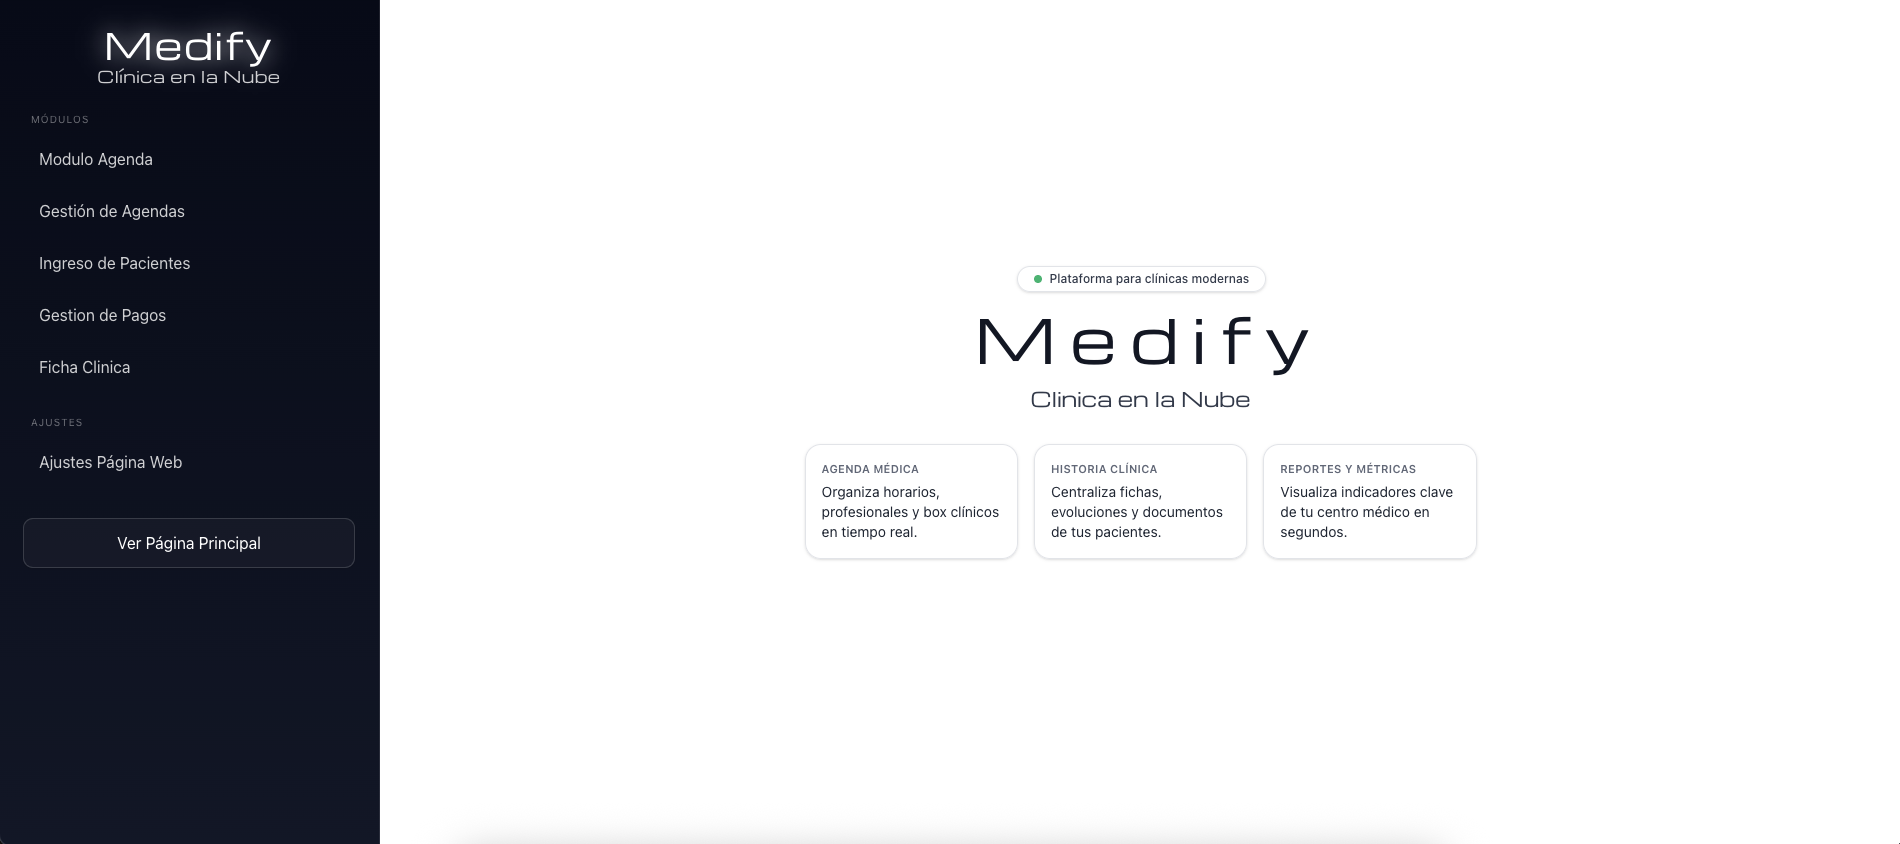
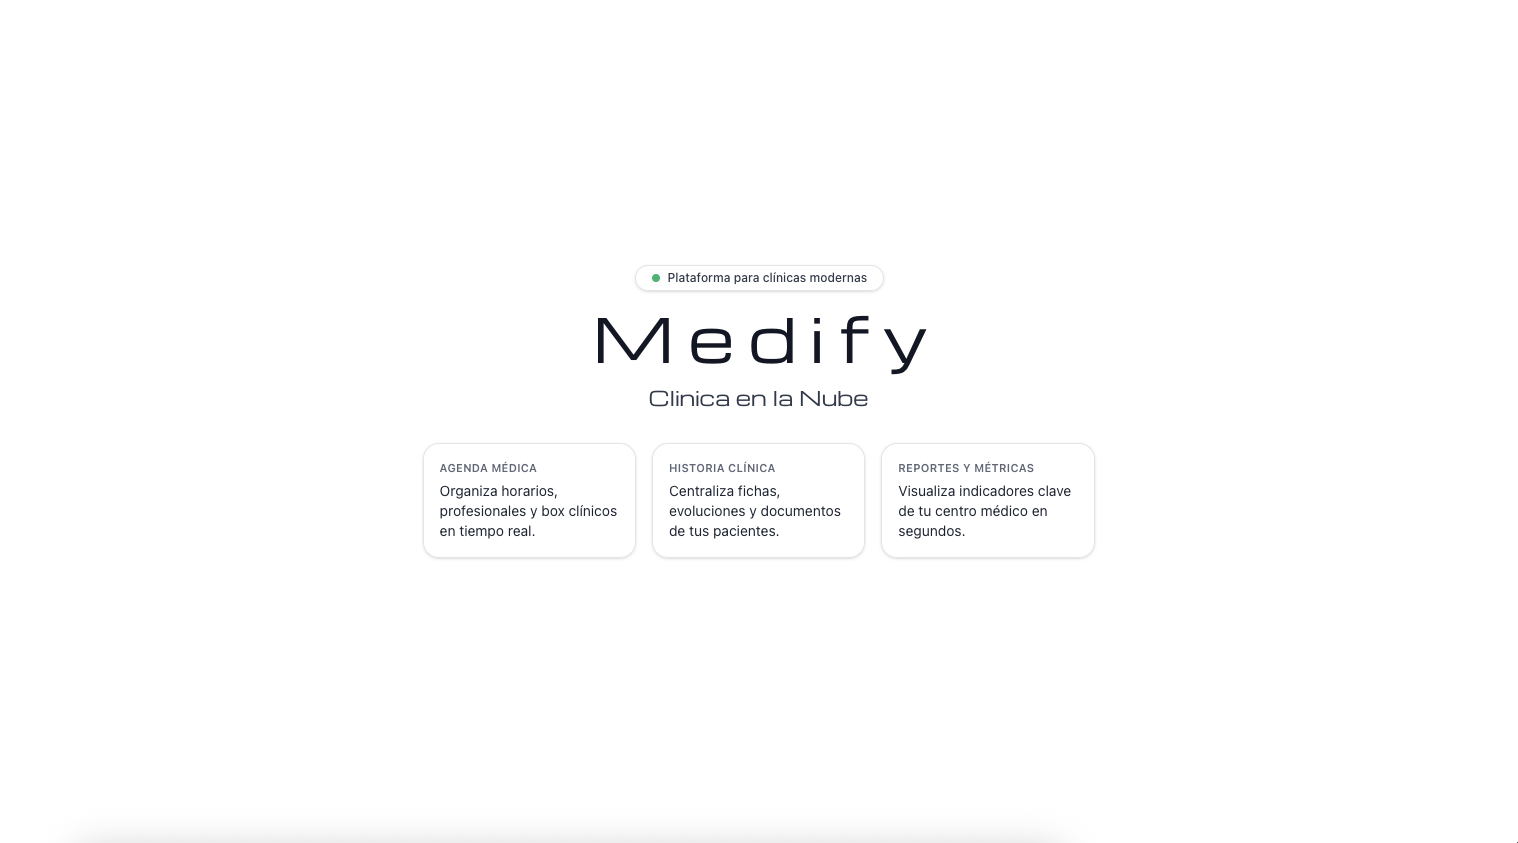
chore: integración pantalla ipad

diff --git a/src/app/servicios/page.jsx b/src/app/servicios/page.jsx
@@ -4,8 +4,9 @@ import CardSwap from '../../componentes/CardSwap';
 import FadeInSection from '../../componentes/FadeInSection';
 import Typeanimation from "@/components/ui/typeanimation";
 import { Check, MoveRight, PhoneCall } from "lucide-react";
-
+import Image from "next/image";
 import Pricing1 from "../../components/ui/pricing1";
+import { ContainerScroll } from "@/components/ui/container-scroll-animation";
 
 
 const michroma = Michroma({ subsets: ["latin"], weight: "400", display: "swap" });
@@ -15,20 +16,40 @@ export default function ServiciosPage() {
   return (
     <div className="min-h-screen w-full relative bg-white text-neutral-900">
 
+      {/* Scroll Animation Section */}
+      <div className="w-full">
+        <ContainerScroll
+          titleComponent={
+            <div className="max-w-3xl mx-auto text-center">
+              <h2 className={`text-base/20 font-semibold text-[#0c3690] mb-4 ${spaceGrotesk.className}`}>
+                Gestión Médica Innovadora
+              </h2>
+              <h1 className={`text-3xl md:text-5xl lg:text-6xl font-bold tracking-tight text-neutral-900 mb-6 leading-tight ${spaceGrotesk.className}`}>
+                <strong className="bg-gradient-to-r from-blue-400 to-teal-500 bg-clip-text text-transparent">
+                  La forma de gestionar tu consulta ha cambiado.
+                </strong>
+              </h1>
+              <p className="text-base md:text-lg lg:text-xl text-neutral-700 leading-relaxed px-6 sm:px-8 md:px-12 lg:px-0 max-w-2xl mx-auto">
+                Descubre nuestras soluciones tecnológicas especializadas para el sector de la salud. 
+                Desde gestión básica hasta sistemas de reservas en la nube.
+              </p>
+            </div>
+          }
+        >
+          <Image
+            src="/medifyipadgrafico.jpg"
+            alt="Plataforma de gestión médica Medify"
+            height={720}
+            width={1400}
+            className="mx-auto rounded-2xl object-cover h-full object-left-top"
+            draggable={false}
+          />
+        </ContainerScroll>
+      </div>
 
       {/* Nueva estructura: texto arriba, integraciones abajo */}
       <FadeInSection delay={0}>
-        <div className="max-w-3xl mx-auto text-center mb-12">
-          <h2 className={`text-base/20 font-semibold text-[#0c3690] mb-4 ${spaceGrotesk.className}`}>Gestión Médica Innovadora</h2>
-          <h1 className={`text-center lg:text-5xl xl:text-6xl font-bold tracking-tight text-neutral-900 mb-6 leading-tight ${spaceGrotesk.className}`}>
-            <strong className="bg-gradient-to-r from-blue-400 to-teal-500 bg-clip-text text-transparent">La forma de gestionar tu consulta ha cambiado.</strong>
-          </h1>
-          <p className="text-center lg:text-xl text-neutral-700 leading-relaxed mb-12 px-6 sm:px-8 md:px-12 lg:px-0 max-w-2xl mx-auto">
-            Descubre nuestras soluciones tecnológicas especializadas para el sector de la salud. 
-            Desde gestión básica hasta sistemas de reservas en la nube.
-          </p>
-        </div>
-        <div className="w-full flex flex-col items-center justify-center">
+        <div className="w-full flex flex-col items-center justify-center -mt-32 md:-mt-40">
           <Pricing1/>
         </div>
       </FadeInSection>

diff --git a/src/components/ui/container-scroll-animation.jsx b/src/components/ui/container-scroll-animation.jsx
@@ -1,0 +1,87 @@
+"use client";
+import React, { useRef } from "react";
+import { useScroll, useTransform, motion } from "framer-motion";
+
+export const ContainerScroll = ({
+  titleComponent,
+  children,
+}) => {
+  const containerRef = useRef(null);
+  const { scrollYProgress } = useScroll({
+    target: containerRef,
+  });
+  const [isMobile, setIsMobile] = React.useState(false);
+
+  React.useEffect(() => {
+    const checkMobile = () => {
+      setIsMobile(window.innerWidth <= 768);
+    };
+    checkMobile();
+    window.addEventListener("resize", checkMobile);
+    return () => {
+      window.removeEventListener("resize", checkMobile);
+    };
+  }, []);
+
+  const scaleDimensions = () => {
+    return isMobile ? [0.7, 0.9] : [1.05, 1];
+  };
+
+  const rotate = useTransform(scrollYProgress, [0, 1], [20, 0]);
+  const scale = useTransform(scrollYProgress, [0, 1], scaleDimensions());
+  const translate = useTransform(scrollYProgress, [0, 1], [0, -100]);
+
+  return (
+    <div
+      className="h-[60rem] md:h-[80rem] flex items-center justify-center relative p-2 md:p-20"
+      ref={containerRef}
+    >
+      <div
+        className="py-10 md:py-40 w-full relative"
+        style={{
+          perspective: "1000px",
+        }}
+      >
+        <Header translate={translate} titleComponent={titleComponent} />
+        <Card rotate={rotate} translate={translate} scale={scale}>
+          {children}
+        </Card>
+      </div>
+    </div>
+  );
+};
+
+export const Header = ({ translate, titleComponent }) => {
+  return (
+    <motion.div
+      style={{
+        translateY: translate,
+      }}
+      className="div max-w-5xl mx-auto text-center"
+    >
+      {titleComponent}
+    </motion.div>
+  );
+};
+
+export const Card = ({
+  rotate,
+  scale,
+  children,
+}) => {
+  return (
+    <motion.div
+      style={{
+        rotateX: rotate,
+        scale,
+        boxShadow:
+          "0 0 #0000004d, 0 9px 20px #0000004a, 0 37px 37px #00000042, 0 84px 50px #00000026, 0 149px 60px #0000000a, 0 233px 65px #00000003",
+      }}
+      className="max-w-5xl -mt-12 mx-auto h-[30rem] md:h-[40rem] w-full border-4 border-[#6C6C6C] p-2 md:p-6 bg-[#222222] rounded-[30px] shadow-2xl"
+    >
+      <div className="h-full w-full overflow-hidden rounded-2xl bg-gray-100 dark:bg-zinc-900 md:rounded-2xl md:p-4">
+        {children}
+      </div>
+    </motion.div>
+  );
+};
